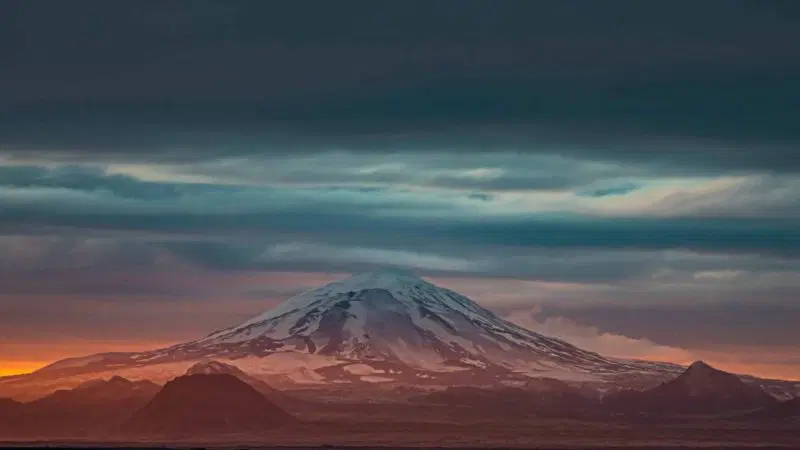
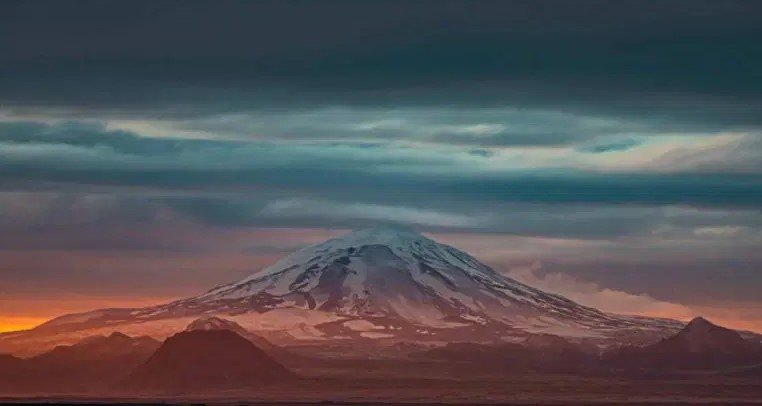
Canvis optimitzacio fotos

diff --git a/informacio.html b/informacio.html
@@ -57,7 +57,7 @@
         </p>
 
         <div class="multimedia">
-            <img src="img/iceland-population-density.jpg" id="img_IcelandPopulation" alt="Density demographic map">
+            <img src="img/iceland-population-density.webp" id="img_IcelandPopulation" alt="Density demographic map">
         </div>
 
     </div>
@@ -169,12 +169,12 @@
 
         <div class="sliderInfo">
             <ul class="sliderUl" >
-                <li><img src="img/Slider2Volcano.jpg" id="img_4" alt="VolcanoSlider" loading="lazy"></li>
-                <li><img src="img/Slider2Geyser.jpg" id="img_5" alt="GeiserSlider" loading="lazy"></li>
-                <li><img src="img/slider2HotSprings.jpg" id="img_6" alt="HotSpringSlder" loading="lazy"></li>
+                <li><img src="img/Slider2Volcano-min.webp" id="img_4" alt="VolcanoSlider" loading="lazy"></li>
+                <li><img src="img/Slider2Geyser-min.webp" id="img_5" alt="GeiserSlider" loading="lazy"></li>
+                <li><img src="img/slider2HotSprings-min.webp" id="img_6" alt="HotSpringSlder" loading="lazy"></li>
                 <li><img src="img/slider2 Nrtnlights_11_11zon.webp" id="img_7" alt="NorthernLightsSlider" loading="lazy"></li>
-                <li><img src="img/slider2 whalewatch.jpg" id="img_8" alt="WhaleWatchingSlider" loading="lazy"></li>
-                <li><img src="img/Slider2iceland-culture-day.jpg" id="img_9" alt="CultureSlider" loading="lazy"></li>
+                <li><img src="img/slider2 whalewatch-min.webp" id="img_8" alt="WhaleWatchingSlider" loading="lazy"></li>
+                <li><img src="img/Slider2iceland-culture-day-min.webp" id="img_9" alt="CultureSlider" loading="lazy"></li>
             </ul>
         </div>
 

diff --git a/geologia.html b/geologia.html
@@ -103,7 +103,7 @@
         </p>
 
         <div class="multimedia">
-            <img src="img/Hekla.jpg" id="img_Hekla" alt="Volcà 2" loading="lazy">
+            <img src="img/Hekla-min.webp" id="img_Hekla" alt="Volcà 2" loading="lazy">
         </div>
 
         <p>
@@ -183,7 +183,7 @@
         </p>
 
         <div class="multimedia">
-            <img src="img/langjokull-glacier.jpg"  id="img_langjokull-glacier" alt="ImatgeGlaceraLangjokull" loading="lazy">
+            <img src="img/langjokull-glacier-min.webp"  id="img_langjokull-glacier" alt="ImatgeGlaceraLangjokull" loading="lazy">
         </div>
 
         <p>
@@ -194,7 +194,7 @@
         </p>
 
         <div class="multimedia">
-            <img src="img/Solheimajokull-glacier.jpg" id="img_Solheimajokull-glacier" alt="ImatgeGlaceraSolheimajokull" loading="lazy">
+            <img src="img/Solheimajokull-glacier-min.webp" id="img_Solheimajokull-glacier" alt="ImatgeGlaceraSolheimajokull" loading="lazy">
         </div>
 
         <p>
@@ -217,7 +217,7 @@
         </p>
 
         <div class="multimedia">
-            <img src="img/SnæfellsjökullGlacier.jpg"  id="img_Snæfellsjökull-glacier" alt="ImatgeGlaceraSnæfellsjökull" loading="lazy">
+            <img src="img/SnæfellsjökullGlacier-min.webp"  id="img_Snæfellsjökull-glacier" alt="ImatgeGlaceraSnæfellsjökull" loading="lazy">
         </div>
 
         <p>

diff --git a/activitats.html b/activitats.html
@@ -92,7 +92,7 @@
         </p>
 
         <div class="multimedia">
-            <img src="img/Iceland-Dark-Sky-Map-Northern-Lights.jpg" id="img_mapaAurores" alt="Activitats Aurores">
+            <img src="img/Iceland-Dark-Sky-Map-Northern-Lights-min.webp" id="img_mapaAurores" alt="Activitats Aurores">
         </div>
 
         <p>
@@ -205,7 +205,7 @@
         </p>
 
         <div class="multimedia">
-            <img src="img/WhaleWatchingSpot.jpg" id="img_mapaWhale" alt="Activitats Whalewatching" loading="lazy">
+            <img src="img/WhaleWatchingSpot-min.webp" id="img_mapaWhale" alt="Activitats Whalewatching" loading="lazy">
         </div>
 
         <p>

diff --git a/index.html b/index.html
@@ -40,7 +40,7 @@
     <div class="slider">
         <ul>
             <li><img src="img/imatge_fons_header_7_11zon.webp" id="img_1" alt="Skyline"></li>
-            <li><img src="img/strokkur.jpg" id="img_2" alt="Geiser"></li>
+            <li><img src="img/strokkur-min.webp" id="img_2" alt="Geiser"></li>
             <li><img src="img/Paisatge_Index_13_11zon.webp" id="img_3" alt="Cascade"></li>
         </ul>
     </div>

diff --git a/css/estils.css b/css/estils.css
@@ -589,6 +589,7 @@
 #DorsalOceanicaFoto_iceland {
     flex: 1;
     height: auto;
+    width: 60%;
 }
 
 #img_Eyjafjallajökull {
